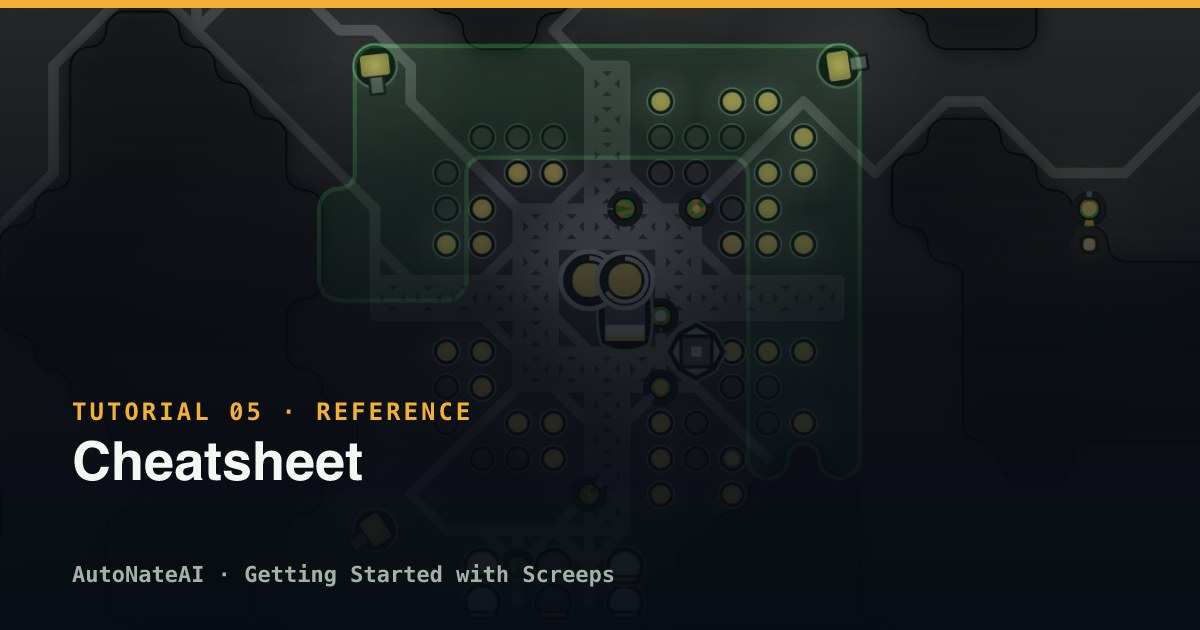
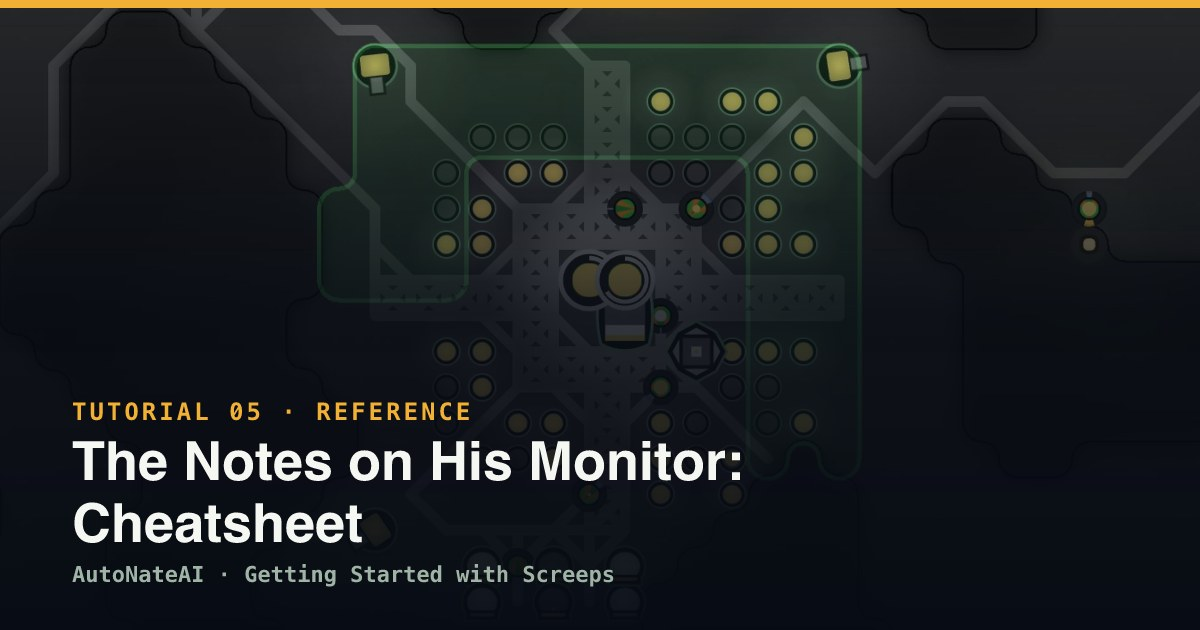
Continue AutoNate's story into the Getting Started with Screeps pack
Weaves the narrative from the JS pack into all 6 Screeps tutorials —
the world, his emotions (nerves, pride, the humbling first loss), and
some humor — without disturbing the existing technical instructions,
code, or diagrams. Retitled each lesson with a story hook to match the
JS pack's pattern (e.g. "Building the Squad: Core Loop and Roles") and
refreshed the pack tagline/summary.

Explicitly written to work standalone: 00 opens with a two-sentence
bridge for readers who never touched the JS pack, and the pack summary
states outright that no prior chapters are required. Also fixed a few
pre-existing broken single-asterisk italics that don't render under
this site's markdown parser.

Changed region(s): [[0.0617, 0.6937, 0.6167, 0.8746]]

diff --git a/apps/marketplace/content/tutorials/getting-started-with-screeps/02-core-loop-and-roles.md b/apps/marketplace/content/tutorials/getting-started-with-screeps/02-core-loop-and-roles.md
@@ -1,6 +1,8 @@
 # Core Loop and Roles
 
-The single hardcoded harvester from the quickstart breaks the moment you add a second creep — both will pick the same source, pile up, and waste half their throughput. Everything in this file exists to fix that, permanently, in a way that scales to any number of creeps and jobs.
+AutoNate spawned a second creep feeling good about himself, and within about four ticks both of them were standing on top of the same source, elbowing each other out like it's the last open pump at a gas station on empty. Nothing was actually broken — the code ran fine, no errors, no red text. It was just dumb. Two creeps, one source, half the energy either of them could've been pulling if they'd split up. That's a special kind of frustrating: the thing works exactly as written, and "as written" just wasn't smart enough.
+
+This is the first real wall everybody hits, and it's a good one, because the fix isn't a trick — it's an actual architecture decision. The single hardcoded harvester from the quickstart breaks the moment you add a second creep — both will pick the same source, pile up, and waste half their throughput. Everything in this file exists to fix that, permanently, in a way that scales to any number of creeps and jobs.
 
 ## Source Assignment (Stop Creeps From Fighting Over One Source)
 
@@ -31,7 +33,7 @@ This assigns once and remembers — it doesn't recompute the best source every t
 
 ## The Role Pattern
 
-One script that branches on every possible job doesn't scale. Give every job its own file, exporting a `run(creep)` function, and dispatch by `creep.memory.role`.
+Sources sorted, gas station beef resolved. Next problem: every creep AutoNate spawns needs a job, and cramming "if it's a harvester do this, if it's an upgrader do that, if it's a builder do the other thing" into one giant script is exactly the kind of thing that feels fine at three creeps and turns into a nightmare at fifteen. This is the same lesson functions taught — one clean, trustworthy piece of logic you can call by name — just scaled up to entire jobs instead of single moves. One script that branches on every possible job doesn't scale. Give every job its own file, exporting a `run(creep)` function, and dispatch by `creep.memory.role`.
 
 **`role.harvester.js`** — general-purpose, harvest-and-deliver:
 
@@ -137,9 +139,11 @@ flowchart TD
 
 `main.js` never contains behavior itself, only dispatch. Adding a role later means a new file, one line in `ROLE_BODIES`/`POPULATION`, one `else if`.
 
+This is the moment it stopped feeling like AutoNate was just following steps in a guide and started feeling like he was actually designing something. Three role files, one dispatcher that doesn't care how many roles exist, a diagram he could draw on a napkin and hand to somebody else and they'd get it immediately. That's architecture. Nobody told him that word applied to him yet — he just noticed the code stopped fighting him.
+
 ## Population-Based Spawning
 
-Stop hardcoding creep names. Spawn by role count, with a body suited to each job:
+Naming creeps by hand gets old around creep number four, and manually typing `spawnCreep` every time one dies is a full-time job nobody's signing up for. Stop hardcoding creep names. Spawn by role count, with a body suited to each job:
 
 ```js
 const roleHarvester = require('role.harvester');
@@ -192,7 +196,7 @@ function spawnMissingRoles() {
 
 ## RCL and What It Unlocks
 
-Reaching a controller level only unlocks the *allowance* to build something — you still have to place and complete the construction site.
+Reaching a controller level only unlocks the allowance to build something — you still have to place and complete the construction site.
 
 | RCL | Extensions Allowed | Notable Unlock |
 | --- | --- | --- |
@@ -206,5 +210,7 @@ Reaching a controller level only unlocks the *allowance* to build something — 
 | 8 | 60 | Third spawn, observer, power spawn, nuker |
 
 Check current level: `Game.spawns.Spawn1.room.controller.level`. Check available spawn capacity (base 300 + 50 per completed extension): `Game.spawns.Spawn1.room.energyCapacityAvailable`.
+
+Squad's built, roles are clean, spawning handles itself. AutoNate leaned back and thought he was basically done. He was not basically done — his creeps were about to spend more time walking back and forth than actually working, and he had no idea yet.
 
 Next: `03-infrastructure-and-scaling.md`.

diff --git a/apps/marketplace/content/tutorials/getting-started-with-screeps/03-infrastructure-and-scaling.md b/apps/marketplace/content/tutorials/getting-started-with-screeps/03-infrastructure-and-scaling.md
@@ -1,5 +1,7 @@
 # Infrastructure and Scaling
 
+AutoNate pulled up the room visual and actually watched his creeps for a few minutes instead of just trusting the numbers were going up. What he saw wasn't a colony — it was a commute. Harvesters walking all the way to a source, filling up, walking all the way back, over and over, spending more time in transit than actually working. It looked less like a factory and more like everybody late for the same train. That's the tell. Once you're staring at your own colony wondering why it feels slow even though nothing's technically wrong, you've found the next real problem to solve.
+
 Once the role pattern is running, the next bottleneck is always the same: creeps spending more time walking than working. This file covers the fixes, in the order they usually start mattering.
 
 ## Roads
@@ -23,7 +25,7 @@ A road costs `1` movement point per step instead of `2` on plains or `10` on swa
 
 ## Static Mining + Hauling (The Real Throughput Fix)
 
-Past a certain point, a general-purpose harvester (harvest + walk + deliver) is slower than splitting the job. A `WORK`-heavy creep plants itself on a source and never moves; a `CARRY`-heavy creep does nothing but ferry energy.
+Roads helped. Didn't fix it. AutoNate was still watching one creep try to do three jobs at once — mine, haul, repeat — and it clicked for him the same way the role pattern clicked back in the last chapter: stop asking one worker to be everything, split the job by what it actually is. Past a certain point, a general-purpose harvester (harvest + walk + deliver) is slower than splitting the job. A `WORK`-heavy creep plants itself on a source and never moves; a `CARRY`-heavy creep does nothing but ferry energy.
 
 Five `WORK` parts harvest `10` energy/tick — matching a source's average regeneration rate exactly, so nothing goes to waste:
 
@@ -92,7 +94,7 @@ Compare to one general-purpose creep doing all four steps itself, walking the wh
 
 ## CPU and Memory Discipline
 
-`room.find()` scans every object of that type; `findClosestByPath` runs real pathfinding. Both are cheap at three creeps and expensive at fifteen.
+AutoNate checked his CPU bucket for the first time the same way he checks his phone battery at 4%, in public, with no charger — a little bit of panic he wasn't expecting to feel over a strategy game. Turns out it's the same anxiety either way. `room.find()` scans every object of that type; `findClosestByPath` runs real pathfinding. Both are cheap at three creeps and expensive at fifteen.
 
 Check your actual cost:
 
@@ -117,7 +119,7 @@ function getSources(room) {
 module.exports = { getSources };
 ```
 
-A plain object like this resets itself harmlessly on a global reset (a code push, an uncaught exception, a periodic engine refresh) — the next call just recomputes it once. Anything that *must* survive a reset (like `creep.memory.sourceId`) belongs in `Memory` instead.
+A plain object like this resets itself harmlessly on a global reset (a code push, an uncaught exception, a periodic engine refresh) — the next call just recomputes it once. Anything that must survive a reset (like `creep.memory.sourceId`) belongs in `Memory` instead.
 
 ```mermaid
 flowchart TD
@@ -148,5 +150,7 @@ module.exports = roleReserver;
 ```
 
 `reserveController` has to be called every tick the creep is in range — a single reserver camped on the controller holds it indefinitely. List your exits with `Game.map.describeExits(roomName)` and check a target isn't already owned or reserved before committing creeps to it.
+
+AutoNate scouted one exit room out of pure curiosity and found a hostile creep just standing there, doing nothing to him, not even close to his territory — but very clearly not friendly. First real reminder that he's not playing in a sandbox by himself. Somebody, or something, else is out there. Time to stop optimizing for a world that's empty and start preparing for one that isn't.
 
 Next: `04-combat-and-competing.md`.

diff --git a/apps/marketplace/content/tutorials/getting-started-with-screeps/04-combat-and-competing.md b/apps/marketplace/content/tutorials/getting-started-with-screeps/04-combat-and-competing.md
@@ -1,5 +1,7 @@
 # Combat and Competing
 
+This is the chapter AutoNate actually bought the game for. The Virtual Battle Bot League isn't creeps peacefully harvesting energy in an empty room — it's two colonies going at it, and up to this point his has never had to defend a single thing. That hostile creep he spotted scouting last chapter is still out there somewhere, and eventually something like it is going to walk straight into his room and test everything he's built. He'd be lying if he said that thought didn't put a little static in his stomach. Good. That means it matters.
+
 This is the "get good enough to fight" file. It covers passive defense, the actual combat math, a working defender, and — the part most guides skip — how to test any of this against real NPCs on your own machine before you ever risk it against another player.
 
 ## Towers (Passive Defense That Needs Active Code)
@@ -28,7 +30,7 @@ Call `runTowers()` once per tick from your main loop. Requires RCL3. Keep it fue
 
 ## Rampart Tanking
 
-A creep standing *on top of* your own rampart can't be damaged from outside until the rampart's own hit points hit zero first. The rampart absorbs the hit; the creep underneath takes nothing. A freshly built rampart starts with barely any hit points — it protects nothing until something repairs it up. Build ramparts over your spawn and tower, then keep a builder or dedicated repairer feeding them energy.
+A creep standing on top of your own rampart can't be damaged from outside until the rampart's own hit points hit zero first. The rampart absorbs the hit; the creep underneath takes nothing. A freshly built rampart starts with barely any hit points — it protects nothing until something repairs it up. Build ramparts over your spawn and tower, then keep a builder or dedicated repairer feeding them energy.
 
 ## The Real Combat Numbers
 
@@ -91,7 +93,7 @@ function getPopulationTargets(room) {
 
 ## Testing Against Real NPCs, Locally, No Internet Required
 
-This is the part most guides can't give you, because it depends on infrastructure most setups don't have. This repo ships two ways to get real hostile contact without touching another player's colony.
+AutoNate's honest first attempt at defense got folded in about six ticks. No towers built yet, one lonely defender with the wrong body, a hostile wave that walked in and mopped the floor with him while he sat there like "wait, wait, hold on—" and it was already over. He closed the laptop, sulked for exactly five minutes, and came back with towers, ramparts, and a defender that actually made sense. That's the honest cycle: get humbled, get better, go again. Nobody's defense is clean the first time. This is the part most guides can't give you, because it depends on infrastructure most setups don't have. This repo ships two ways to get real hostile contact without touching another player's colony.
 
 **On-demand waves.** A local mod (`screeps-server/mods/sparring-ground.js`) exposes an HTTP endpoint that triggers the server's own invader-generation system:
 
@@ -132,5 +134,7 @@ function recordIntel(room) {
 ```
 
 Treat old entries as suspect, not certain — `Game.time - Memory.rooms[name].lastSeen` tells you how stale a given snapshot is.
+
+Towers wired up, ramparts holding, a defender that actually reacts instead of just standing there looking tough. AutoNate ran the sparring waves a few more times just to watch his own colony hold the line, and for the first time it didn't feel like luck. It felt like it was supposed to work — because he built it to.
 
 Next: `05-cheatsheet.md`.

diff --git a/apps/marketplace/content/tutorials/getting-started-with-screeps/00-buy-download-and-launch.md b/apps/marketplace/content/tutorials/getting-started-with-screeps/00-buy-download-and-launch.md
@@ -1,5 +1,9 @@
 # Buy, Download, and Launch Screeps on Steam
 
+If you've been riding with AutoNate since he wrote his first `console.log`, welcome back — this is the day everything he learned stops being practice. If this is the first you're meeting him: he's eighteen, he taught himself JavaScript from nothing over the last few weeks, and he's about to buy the actual game he's been training for. Either way, you don't need any of that backstory to follow this guide — every step here works whether you've been coding for five minutes or five years. If you do want the fuller story of how he got here, that's the **Intro to JavaScript for Beginners** pack, and it's free too.
+
+AutoNate had the Steam page open in a tab for two full days before he actually clicked buy. Not because the price was bad — because clicking it made the whole thing real. Up until now, "I'm gonna learn to code and build a bot" was just a thing he said. Once he pays for the game, it's a thing he's doing. He checked his bank app one more time like the number was going to change, took a breath, and hit the button. You might do the same thing. That's normal. Buy it anyway.
+
 ## 1. Buy Screeps: World
 
 Open Steam and search for **Screeps: World**. It's a one-time purchase, not a subscription — buying it unlocks the full client and your first CPU allotment. Click **Add to Cart**, check out, and let it drop into your Steam library.
@@ -9,6 +13,8 @@ Open Steam and search for **Screeps: World**. It's a one-time purchase, not a su
 ## 2. Download and Install
 
 From your Steam Library, select Screeps: World and click **Install**. Pick an install location if prompted and wait for the download to finish. No extra launcher or account setup is required at this step — Steam handles the client.
+
+This is the part where AutoNate paced his room for ten minutes watching a progress bar like it owed him money. A download bar has never moved slower for anyone, ever, in the history of the internet. Go make a sandwich.
 
 ## 3. Launch and Sign In
 
@@ -22,6 +28,8 @@ After sign-in, you should land on the **world map** — a grid of sectors and ro
 
 (Placeholder screenshot from the official Screeps site — swap in your own once you've claimed a room.)
 
+AutoNate sat there for a solid minute just scrolling the map, zooming in and out, not doing anything productive at all. Every one of those little rooms is somebody's actual colony — some abandoned, some running quietly, some being fought over right now by two people who will never meet in real life. It's a whole world, and none of it needed him to press a single button to keep going while he was staring at it. That part hit different. This isn't a level that waits for you to load in. It's already running.
+
 ## 5. Sanity Checks
 
 If Steam says it's installed but nothing launches: right-click Screeps: World in your library → **Properties** → **Installed Files** → **Verify integrity of game files**.
@@ -29,5 +37,7 @@ If Steam says it's installed but nothing launches: right-click Screeps: World in
 If the client hangs on a loading screen: check your connection, then fully quit and relaunch — the first asset load is the slowest one.
 
 If you don't see the world map after signing in: confirm the account finished creating (check your email for a verification link) and sign in again.
+
+AutoNate's got the map open. Somewhere in this grid is a room with his name about to go on it. Time to go claim it.
 
 Next: `01-quickstart.md` — claim a room and get your first creep moving.

diff --git a/apps/marketplace/content/tutorials/getting-started-with-screeps/01-quickstart.md b/apps/marketplace/content/tutorials/getting-started-with-screeps/01-quickstart.md
@@ -1,5 +1,7 @@
 # Quickstart: Playing in 15 Minutes
 
+The world map is a lot, honestly. Hundreds of rooms, some owned, most empty, no big flashing arrow telling you "start here." AutoNate stared at it for a second feeling exactly like his first day at a new school — the whole building's right there, and nobody hands you a map. So he did the only reasonable thing: picked a room that looked decent and committed. Overthinking the "perfect" starting room is how you spend an hour not playing. Good enough beats perfect, on day one and pretty much every day after.
+
 ## 1. Claim a Room
 
 On the world map, pick an unowned room with two visible energy sources, a controller, and enough open space near both. Enter it, and use the client's prompt to place your first spawn. Name it `Spawn1`.
@@ -17,6 +19,8 @@ Game.spawns.Spawn1.spawnCreep([WORK, CARRY, MOVE], 'Harvester1');
 - `-4` — spawn is busy
 - `-6` — not enough energy
 - `-3` — name already exists
+
+AutoNate named his first creep `Harvester1`, watched it pop into existence, and just kind of sat there grinning at a tiny dot on his screen for longer than he'd ever admit out loud. Yeah, the name's not creative. Nobody's first creep name is. That's not the point. The point is three weeks ago he didn't know what a variable was, and now he just typed one line and a living thing showed up in a persistent world that keeps running whether he's watching it or not. Let yourself have that moment. It doesn't get less cool the tenth time, but the first time's the first time.
 
 ## 3. Give It a Job
 
@@ -52,12 +56,14 @@ module.exports.loop = function () {
 
 Save it. Watch the creep harvest, return, deliver, repeat — and respawn itself automatically if it dies.
 
-That's the entire game, in miniature: harvest, deliver, survive. Everything from here is scaling that one loop until it doesn't need you watching it.
+That's the entire game, in miniature: harvest, deliver, survive. Everything from here is scaling that one loop until it doesn't need you watching it. AutoNate closed his laptop, made dinner, came back forty minutes later, and his creep was still out there working — same loop, same job, no crash, no complaints, not one bit of his attention required. That's the part that actually sold him on this whole thing. Not the graphics. Not the combat. The fact that something he wrote kept doing its job in the real, running world while he was doing literally anything else.
 
 ## 4. Sanity Checks
 
 If nothing spawns: `Game.spawns.Spawn1.spawning` and `Game.spawns.Spawn1.store[RESOURCE_ENERGY]`.
 
 If the creep exists but sits still: check the console for a script error — a typo in `main` fails silently otherwise.
+
+One creep working alone feels like a win right up until AutoNate tried to add a second one — and found out fast that "it worked once" and "it scales" are two very different sentences.
 
 Next: `02-core-loop-and-roles.md`.

diff --git a/apps/marketplace/content/tutorials/getting-started-with-screeps/05-cheatsheet.md b/apps/marketplace/content/tutorials/getting-started-with-screeps/05-cheatsheet.md
@@ -1,6 +1,6 @@
 # Cheatsheet
 
-Quick lookups for things you'll otherwise re-Google every week for the first month.
+Every builder ends up with a sticky note, a second monitor, or a browser tab they never close. AutoNate's version is this file — the stuff he still looks up without an ounce of shame, because knowing you need to check something beats guessing and finding out the hard way. Quick lookups for things you'll otherwise re-Google every week for the first month.
 
 ## Common Error Codes
 
@@ -57,3 +57,11 @@ See the full table in `02-core-loop-and-roles.md`. Containers are the exception 
 ## Where to Go Deeper
 
 Every pattern in this guide has a full episode in `docs/tutorials/` with checkpoints, troubleshooting, and the reasoning behind each design choice — start at `docs/tutorials/01-first-spawn-and-harvester.md` if you want the long version of any of this.
+
+## The Part Where AutoNate Looks Back
+
+A few weeks ago AutoNate didn't know what a variable was. Now he's got a colony that harvests, builds, upgrades, and defends itself without him touching a single button — roads planned, roles assigned, CPU budgeted, a defender that actually reacts instead of just standing there. None of that happened in one sitting. It happened one wall at a time: one source conflict, one CPU scare, one embarrassing six-tick loss that taught him more than the win would have.
+
+He's not finished. Nobody who's serious about this ever really is — there's always a smarter role to write, a tighter economy to run, a better answer to whatever the next opponent throws at him. But he's ready for the part that matters right now: stepping onto a real battle branch, against a real opponent, and finding out if the architecture holds. That's the Virtual Battle Bot League. That's what all of this — the JavaScript, the roles, the roads, the towers — was actually for.
+
+If you followed AutoNate's whole path, from his first `console.log` to a colony that can hold a line: that's not nothing. Go build something that surprises you. And if you skipped straight to this pack and never met him until now — welcome to the arena anyway. The colony doesn't check your backstory before it lets you compete.
